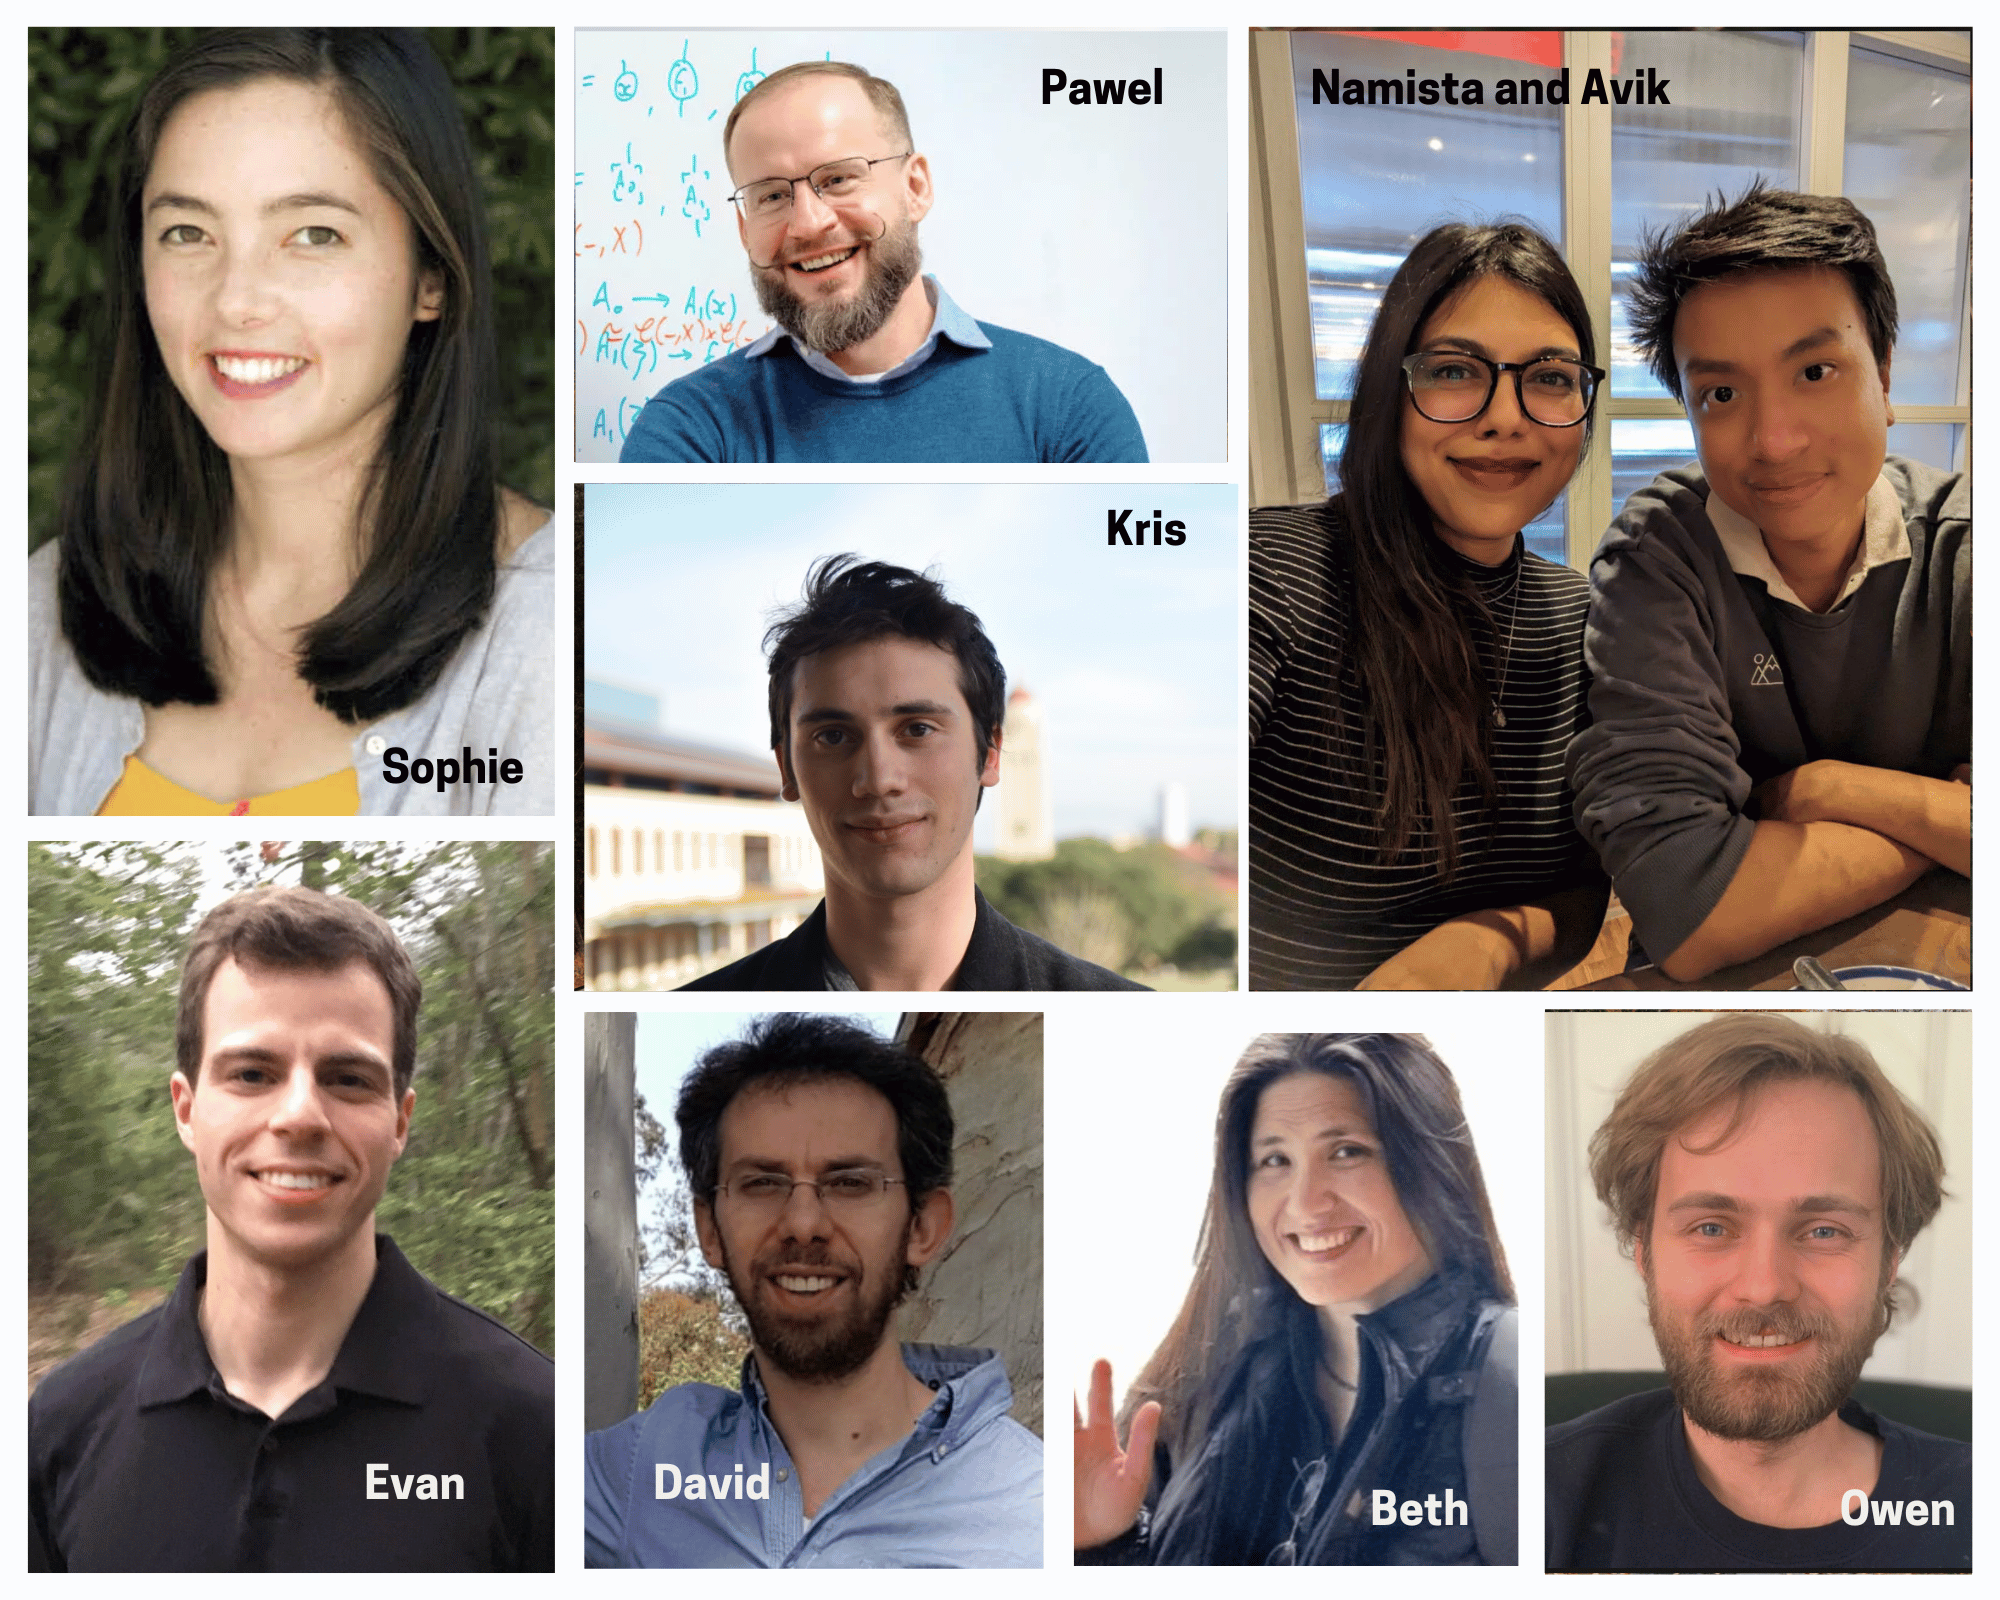
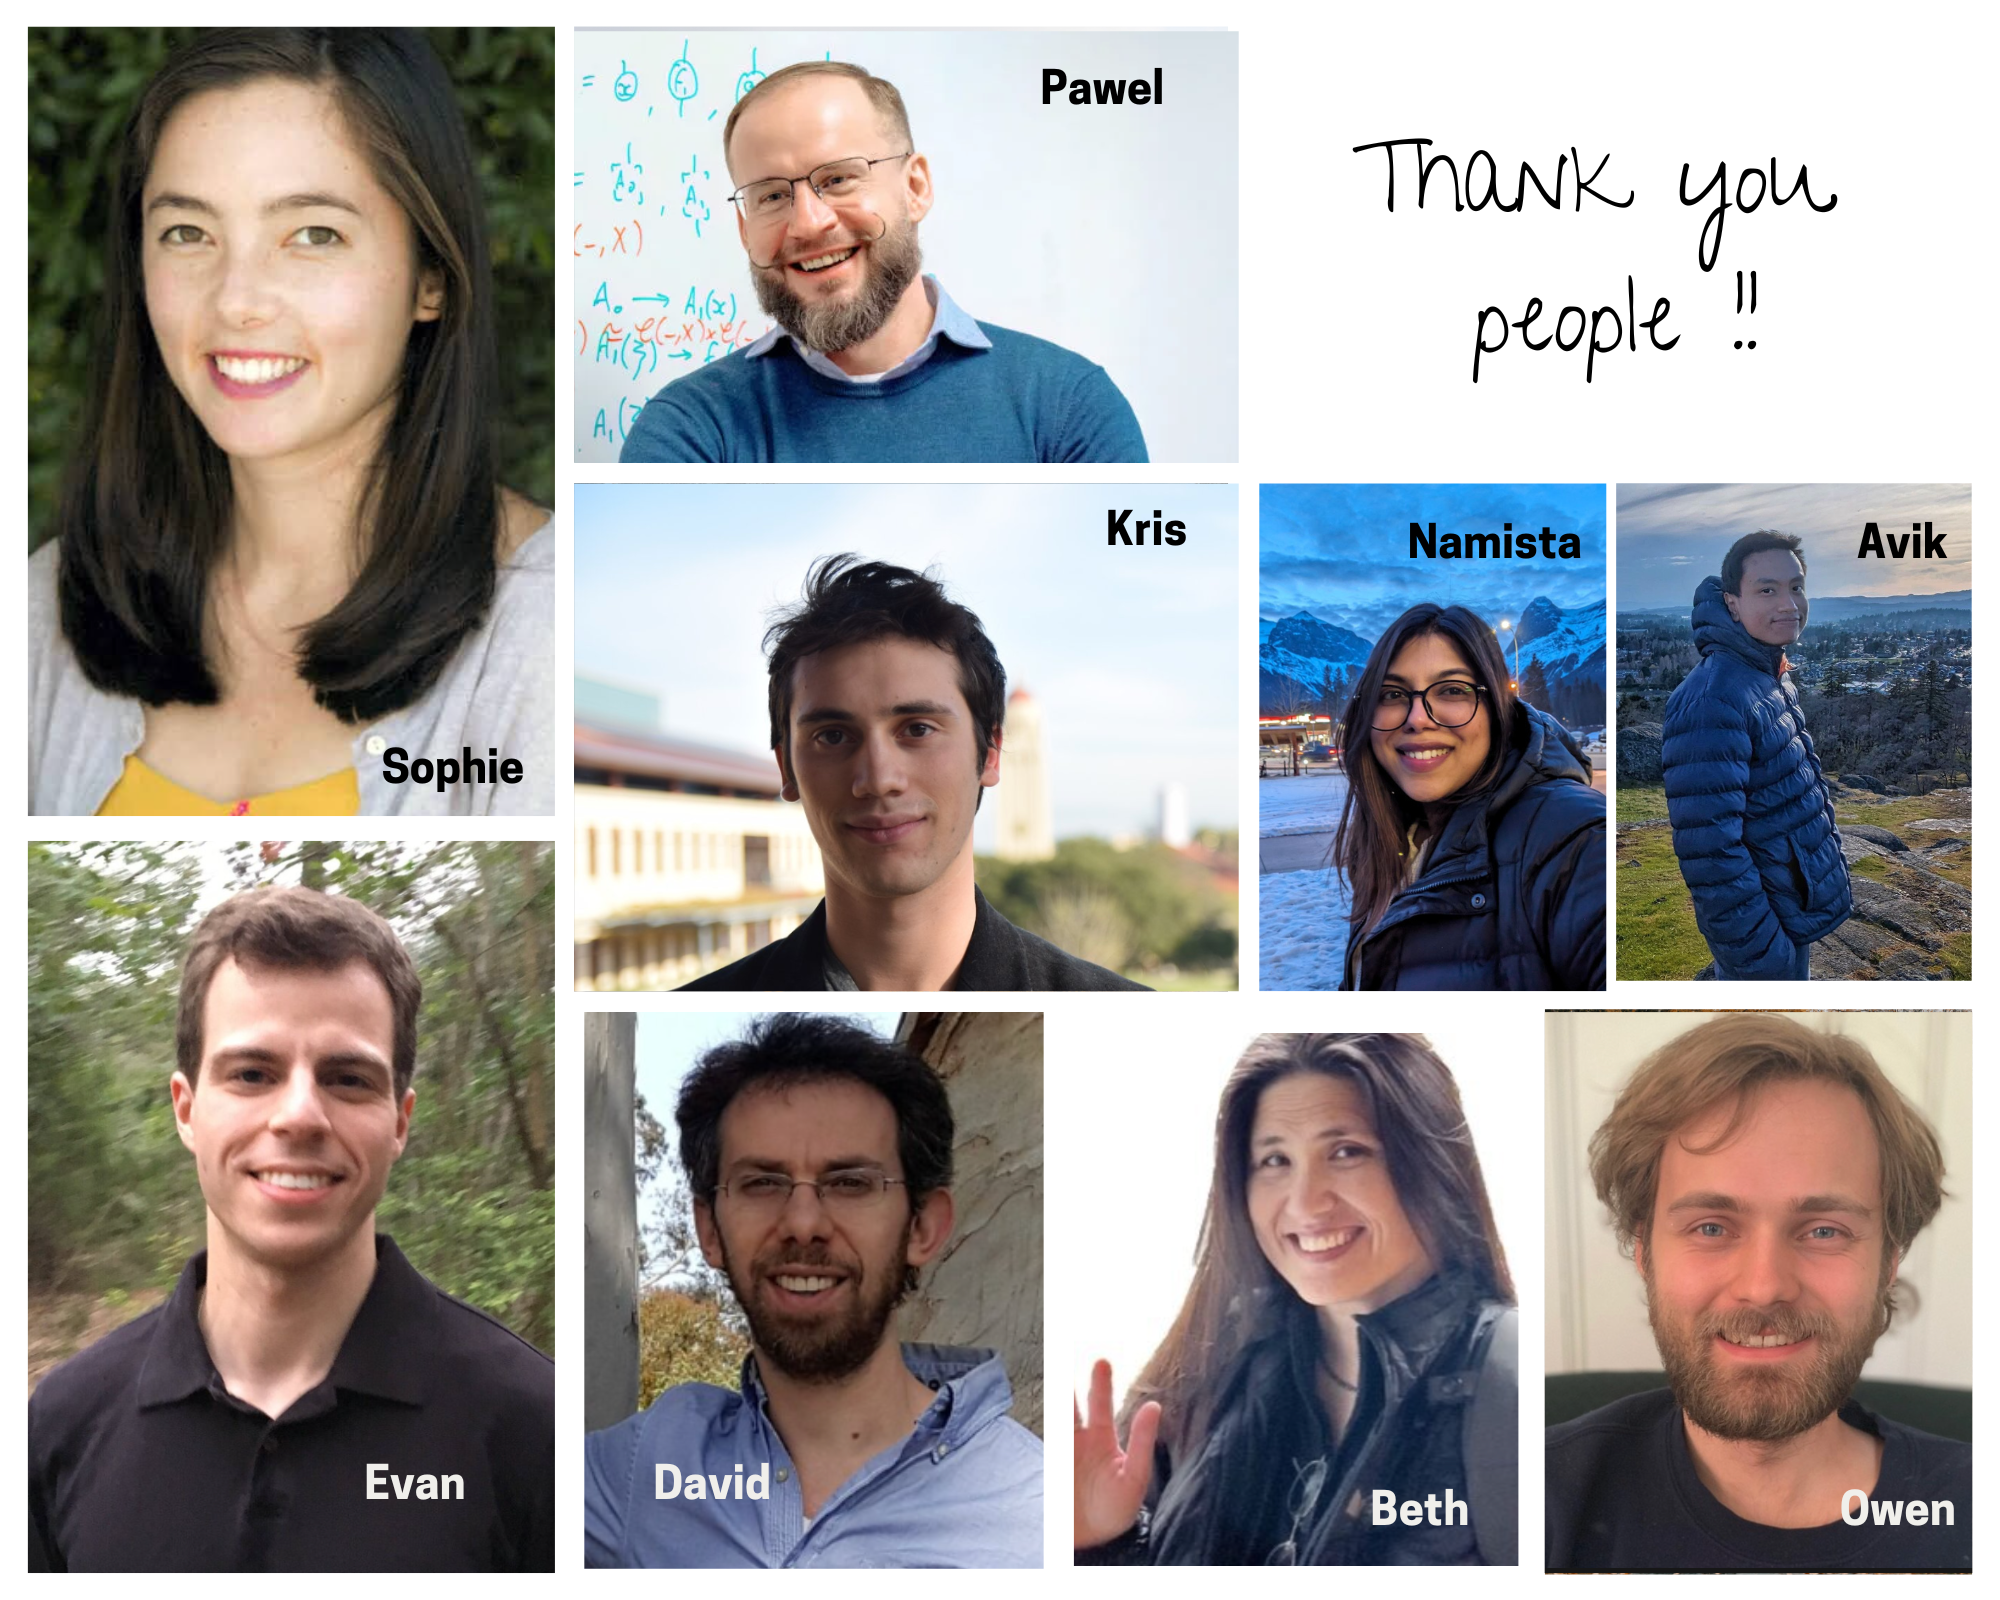
Credits: Upadted the collage

diff --git a/credits.md b/credits.md
@@ -24,7 +24,7 @@ This work has been made possible by a grant from the [Mozilla Internet Ecosystem
 
 Thank you to **Avik Tripura** for creating the Logo and **Namista Tabassum** for creating the cover of this book!  
 
-Thanks to **Pawel Sobocinski** for the inspiration behind the Kiki and Bouba example in Chapter 2. We loved Kiki and Bouba so much that they made it to the logo of this book! 
+Thanks to **Pawel Sobocinski** for inspiring Kiki and Bouba in Chapter 2. We love these characters so much that they now appear in the logo of this book! 
 
 ```{image} assets/Credits/collage.png
 :alt: Whoopsy!
